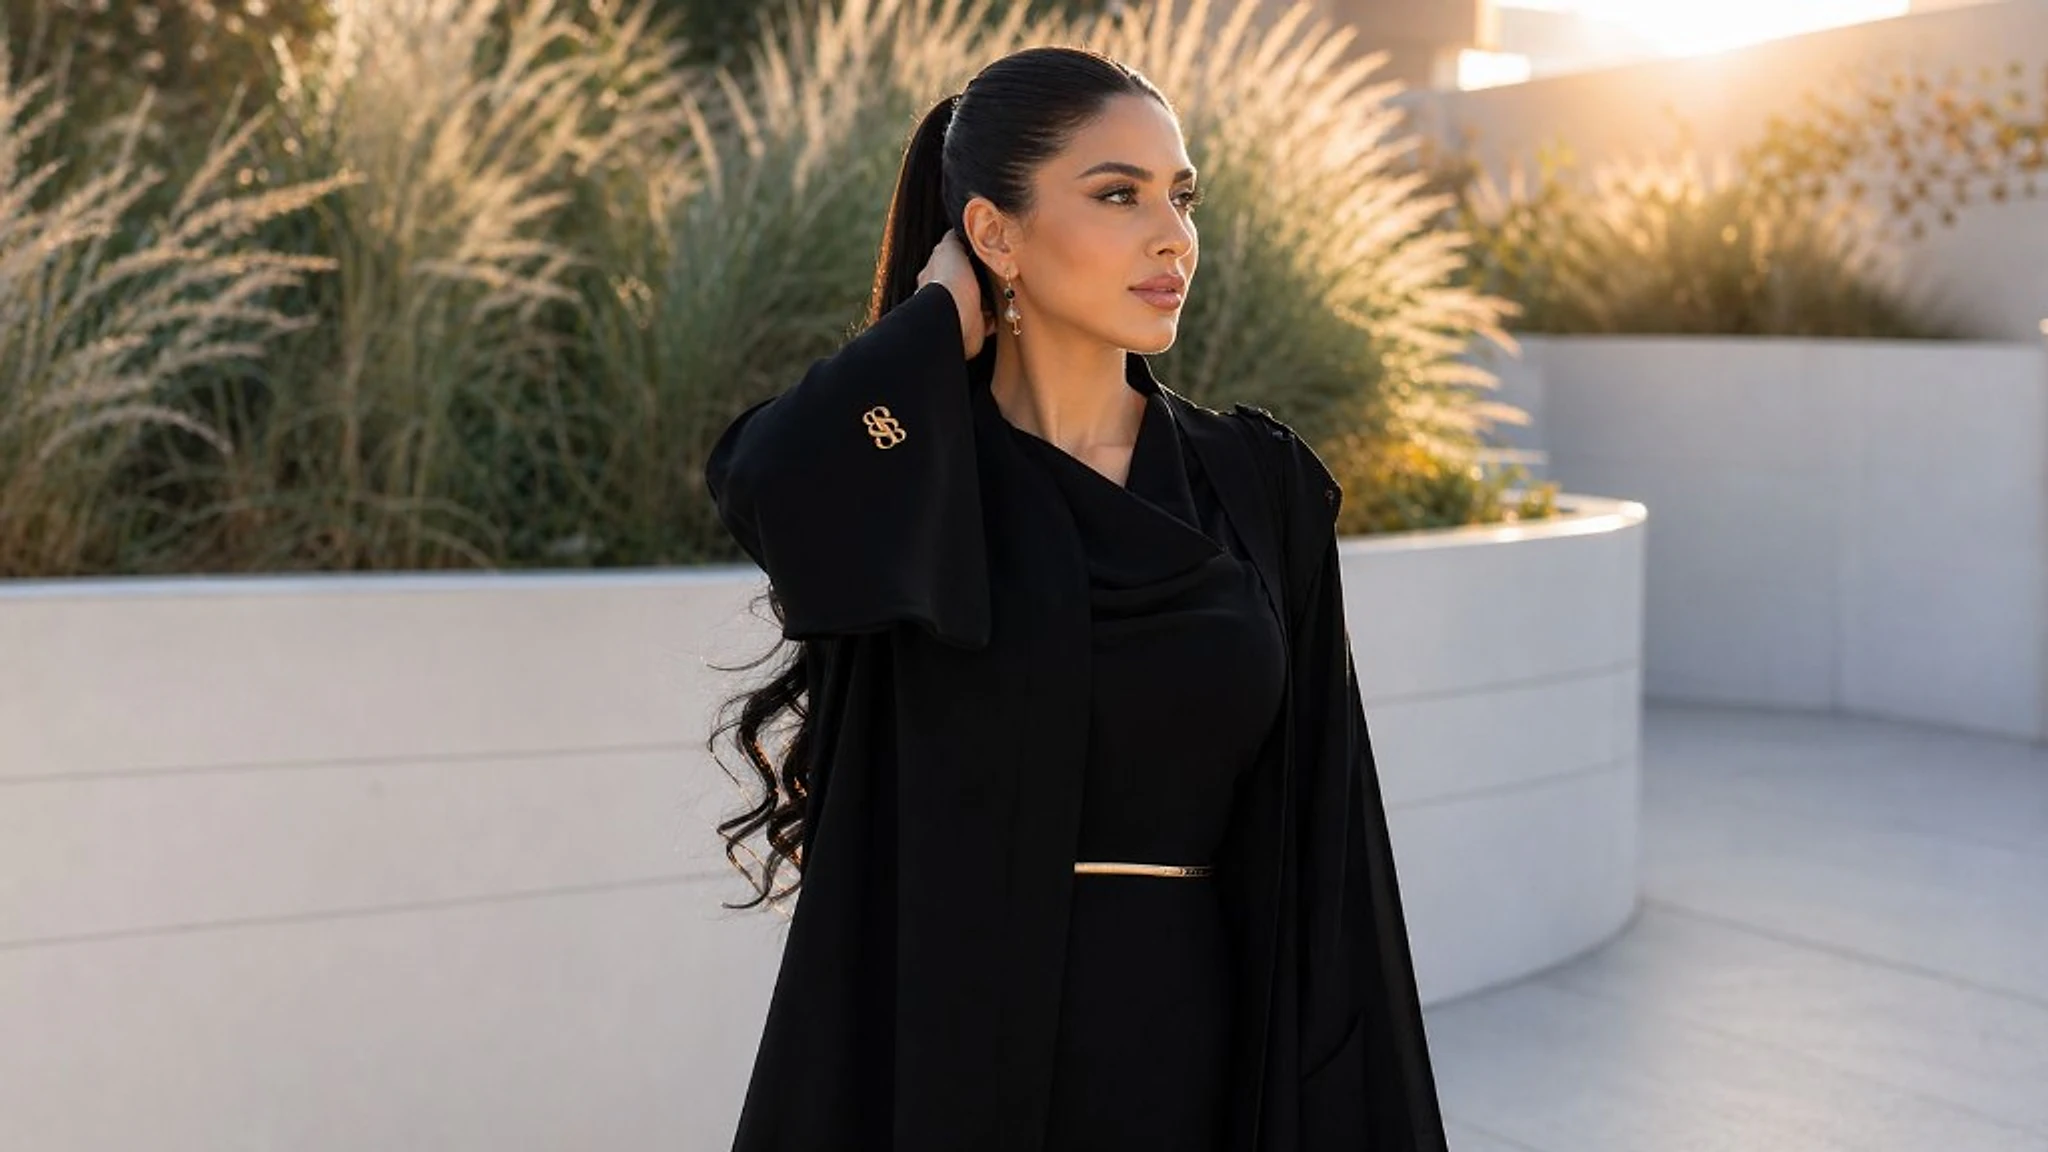
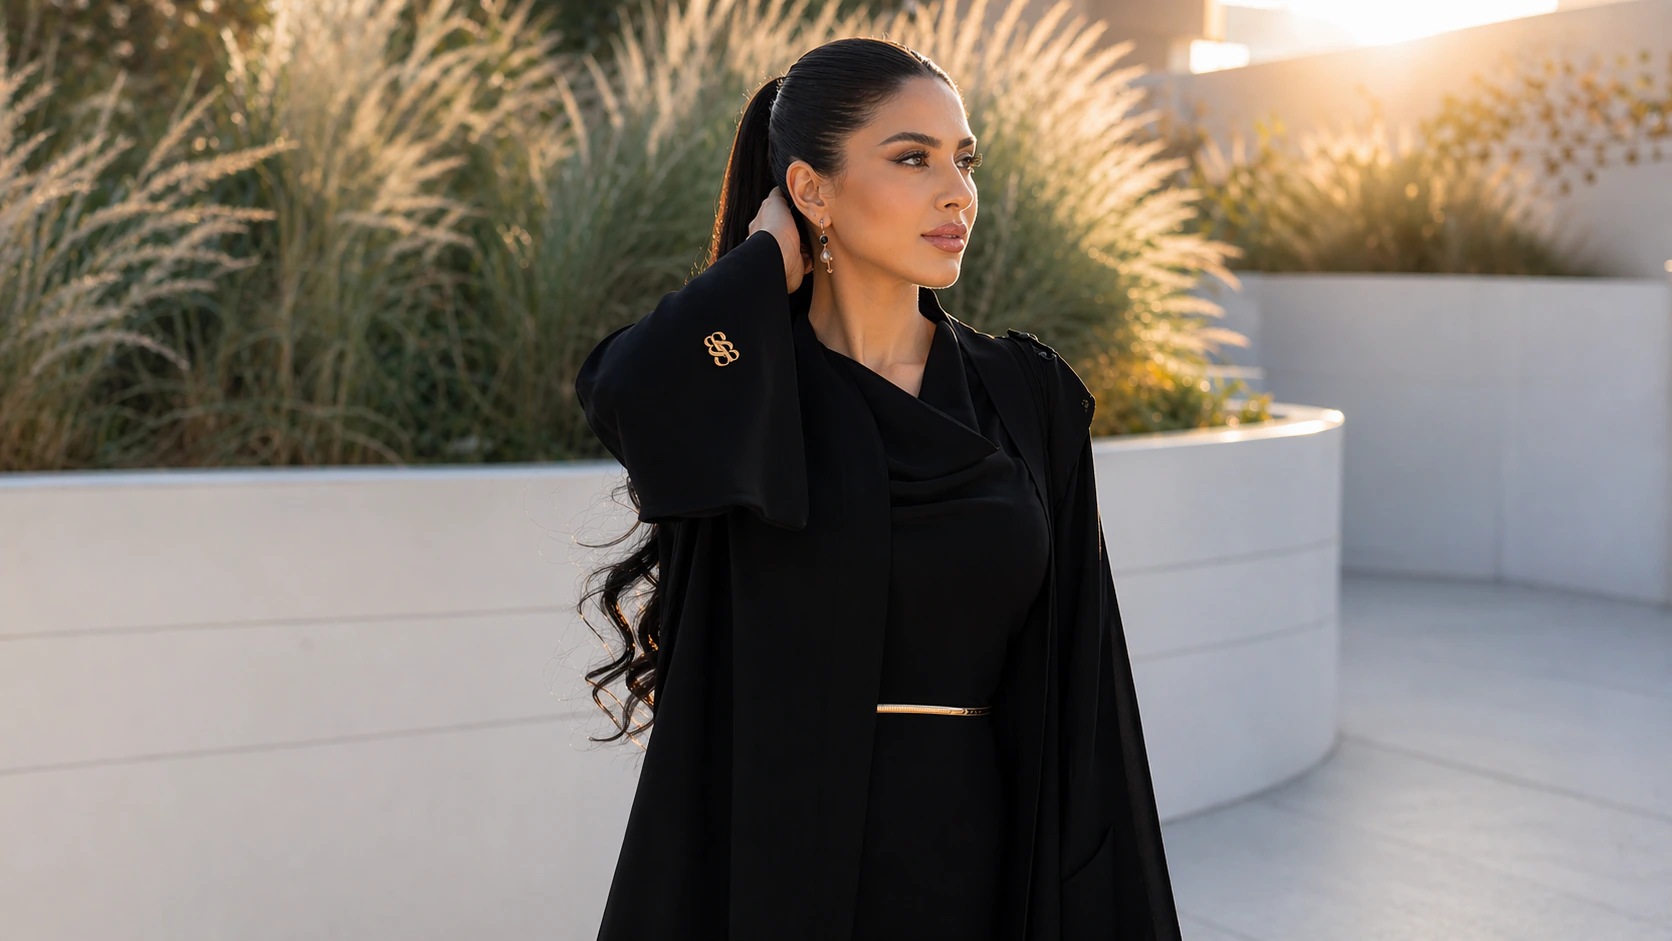
Hero: sharper WebP from 1672px original; Park Lane hero alt text in all locales

diff --git a/lib/i18n/editorialLocales/homeEsRuZhIdMs.ts b/lib/i18n/editorialLocales/homeEsRuZhIdMs.ts
@@ -117,8 +117,8 @@ export const HOME_ES = pack({
     strandsCarouselAlts: ['', '', '', ''] as const,
     personalisationLabel: 'Etiqueta interior personalizada Bint Saeed',
     campaignGazelles: 'Panorama de campaña Bint Saeed — gacelas de Abu Dhabi',
-    heroMobile: 'Abayas Bint Saeed burdeos y negro, fotografía editorial de grupo',
-    heroDesktop: 'Abayas de lujo Bint Saeed, fotografía editorial',
+    heroMobile: 'Abaya Park Lane de Bint Saeed en negro profundo — abaya de lujo emiratí con pañuelo drapeado sobre el hombro y amplios puños cerrados con el gemelo Monogram dorado de Bint Saeed, a la hora dorada en una terraza bañada por el sol',
+    heroDesktop: 'Abaya Park Lane de Bint Saeed en negro profundo — abaya de lujo emiratí con pañuelo drapeado sobre el hombro y amplios puños cerrados con el gemelo Monogram dorado de Bint Saeed, a la hora dorada en una terraza bañada por el sol',
     manifestoPortrait: 'Bint Saeed — de Abu Dhabi al mundo',
     categoryPreview: (label) => `Vista previa ${label}`,
   },
@@ -187,8 +187,8 @@ export const HOME_RU = pack({
     strandsCarouselAlts: ['', '', '', ''] as const,
     personalisationLabel: 'Персонализированная внутренняя этикетка Bint Saeed',
     campaignGazelles: 'Кампанийная панорама Bint Saeed — газели Abu Dhabi',
-    heroMobile: 'Абайи Bint Saeed бордо и чёрный, редакционная групповая съёмка',
-    heroDesktop: 'Люксовые абайи Bint Saeed, редакционная съёмка',
+    heroMobile: 'Абайя Bint Saeed Park Lane глубокого чёрного цвета — роскошная эмиратская дизайнерская абайя с драпированным шарфом на плече и широкими манжетами с золотистой запонкой Bint Saeed Monogram, в золотой час на солнечной террасе',
+    heroDesktop: 'Абайя Bint Saeed Park Lane глубокого чёрного цвета — роскошная эмиратская дизайнерская абайя с драпированным шарфом на плече и широкими манжетами с золотистой запонкой Bint Saeed Monogram, в золотой час на солнечной террасе',
     manifestoPortrait: 'Bint Saeed — из Abu Dhabi в мир',
     categoryPreview: (label) => `Превью ${label}`,
   },
@@ -257,8 +257,8 @@ export const HOME_ZH = pack({
     strandsCarouselAlts: ['', '', '', ''] as const,
     personalisationLabel: 'Bint Saeed 个性化内标',
     campaignGazelles: 'Bint Saeed 广告全景 — 阿布扎比瞪羚',
-    heroMobile: 'Bint Saeed 酒红与黑色长袍，编辑群像摄影',
-    heroDesktop: 'Bint Saeed 奢华长袍，编辑摄影',
+    heroMobile: 'BINT SAEED 承悦 Park Lane 长袍，深黑色——阿联酋奢华设计师长袍，肩部垂坠披巾，宽袖口饰以金色 Monogram 袖扣，于黄金时刻的阳光露台上',
+    heroDesktop: 'BINT SAEED 承悦 Park Lane 长袍，深黑色——阿联酋奢华设计师长袍，肩部垂坠披巾，宽袖口饰以金色 Monogram 袖扣，于黄金时刻的阳光露台上',
     manifestoPortrait: 'Bint Saeed — 从阿布扎比走向世界',
     categoryPreview: (label) => `${label}预览`,
   },
@@ -327,8 +327,8 @@ export const HOME_ID = pack({
     strandsCarouselAlts: ['', '', '', ''] as const,
     personalisationLabel: 'Label dalam personalisasi Bint Saeed',
     campaignGazelles: 'Panorama kampanye Bint Saeed — gazelle Abu Dhabi',
-    heroMobile: 'Abaya Bint Saeed maroon dan hitam, fotografi editorial kelompok',
-    heroDesktop: 'Abaya mewah Bint Saeed, fotografi editorial',
+    heroMobile: 'Abaya Park Lane Bint Saeed warna Deep Black — abaya desainer Emirati mewah dengan syal bahu yang menjuntai dan manset lebar berkancing manset Monogram Bint Saeed berwarna emas, saat golden hour di teras yang bermandikan cahaya',
+    heroDesktop: 'Abaya Park Lane Bint Saeed warna Deep Black — abaya desainer Emirati mewah dengan syal bahu yang menjuntai dan manset lebar berkancing manset Monogram Bint Saeed berwarna emas, saat golden hour di teras yang bermandikan cahaya',
     manifestoPortrait: 'Bint Saeed — dari Abu Dhabi ke dunia',
     categoryPreview: (label) => `Pratinjau ${label}`,
   },
@@ -397,8 +397,8 @@ export const HOME_MS = pack({
     strandsCarouselAlts: ['', '', '', ''] as const,
     personalisationLabel: 'Label dalam diperibadikan Bint Saeed',
     campaignGazelles: 'Panorama kempen Bint Saeed — gazelle Abu Dhabi',
-    heroMobile: 'Abaya Bint Saeed maroon dan hitam, fotografi editorial kumpulan',
-    heroDesktop: 'Abaya mewah Bint Saeed, fotografi editorial',
+    heroMobile: 'Abaya Park Lane Bint Saeed warna Deep Black — abaya pereka Emirati mewah dengan skarf bahu berlabuh dan cuff lebar berkancing manset Monogram Bint Saeed berwarna emas, ketika senja keemasan di teres yang disinari matahari',
+    heroDesktop: 'Abaya Park Lane Bint Saeed warna Deep Black — abaya pereka Emirati mewah dengan skarf bahu berlabuh dan cuff lebar berkancing manset Monogram Bint Saeed berwarna emas, ketika senja keemasan di teres yang disinari matahari',
     manifestoPortrait: 'Bint Saeed — dari Abu Dhabi ke dunia',
     categoryPreview: (label) => `Pratonton ${label}`,
   },

diff --git a/lib/i18n/editorialLocales/homeFrItDePt.ts b/lib/i18n/editorialLocales/homeFrItDePt.ts
@@ -118,8 +118,8 @@ export const HOME_FR = pack({
     strandsCarouselAlts: ['', '', '', ''] as const,
     personalisationLabel: 'Étiquette intérieure personnalisée Bint Saeed',
     campaignGazelles: 'Panorama de campagne Bint Saeed — gazelles d’Abu Dhabi',
-    heroMobile: 'Abayas Bint Saeed bordeaux et noir, photographie éditoriale de groupe',
-    heroDesktop: 'Abayas de luxe Bint Saeed, photographie éditoriale',
+    heroMobile: 'Abaya Park Lane de Bint Saeed en noir profond — abaya de luxe émiratie, écharpe drapée sur l’épaule et larges poignets fermés par le bouton de manchette Monogram doré Bint Saeed, portée à l’heure dorée sur une terrasse baignée de soleil',
+    heroDesktop: 'Abaya Park Lane de Bint Saeed en noir profond — abaya de luxe émiratie, écharpe drapée sur l’épaule et larges poignets fermés par le bouton de manchette Monogram doré Bint Saeed, portée à l’heure dorée sur une terrasse baignée de soleil',
     manifestoPortrait: 'Bint Saeed — d’Abu Dhabi au monde',
     categoryPreview: (label) => `Aperçu ${label}`,
   },
@@ -188,8 +188,8 @@ export const HOME_IT = pack({
     strandsCarouselAlts: ['', '', '', ''] as const,
     personalisationLabel: 'Etichetta interna personalizzata Bint Saeed',
     campaignGazelles: 'Panorama campagna Bint Saeed — gazzelle di Abu Dhabi',
-    heroMobile: 'Abaya Bint Saeed bordeaux e nero, fotografia editoriale di gruppo',
-    heroDesktop: 'Abaya di lusso Bint Saeed, fotografia editoriale',
+    heroMobile: 'Abaya Park Lane di Bint Saeed in nero profondo — abaya di lusso emiratina con sciarpa drappeggiata sulla spalla e ampi polsini chiusi dal gemello Monogram dorato Bint Saeed, indossata all’ora dorata su una terrazza assolata',
+    heroDesktop: 'Abaya Park Lane di Bint Saeed in nero profondo — abaya di lusso emiratina con sciarpa drappeggiata sulla spalla e ampi polsini chiusi dal gemello Monogram dorato Bint Saeed, indossata all’ora dorata su una terrazza assolata',
     manifestoPortrait: 'Bint Saeed — da Abu Dhabi al mondo',
     categoryPreview: (label) => `Anteprima ${label}`,
   },
@@ -258,8 +258,8 @@ export const HOME_DE = pack({
     strandsCarouselAlts: ['', '', '', ''] as const,
     personalisationLabel: 'Personalisiertes verstecktes Innenetikett Bint Saeed',
     campaignGazelles: 'Bint Saeed Kampagnenpanorama — Gazellen von Abu Dhabi',
-    heroMobile: 'Bint Saeed Luxus-Abayas in Bordeaux und Schwarz, editoriale Gruppenfotografie',
-    heroDesktop: 'Bint Saeed Luxus-Abayas, editoriale Fotografie',
+    heroMobile: 'Bint Saeed Park Lane Abaya in Tiefschwarz — luxuriöse emiratische Designer-Abaya mit drapiertem Schulterschal und weiten Manschetten, geschlossen mit dem goldfarbenen Bint Saeed Monogram-Manschettenknopf, zur goldenen Stunde auf einer sonnigen Terrasse',
+    heroDesktop: 'Bint Saeed Park Lane Abaya in Tiefschwarz — luxuriöse emiratische Designer-Abaya mit drapiertem Schulterschal und weiten Manschetten, geschlossen mit dem goldfarbenen Bint Saeed Monogram-Manschettenknopf, zur goldenen Stunde auf einer sonnigen Terrasse',
     manifestoPortrait: 'Bint Saeed — von Abu Dhabi in die Welt',
     categoryPreview: (label) => `Vorschau ${label}`,
   },
@@ -328,8 +328,8 @@ export const HOME_PT = pack({
     strandsCarouselAlts: ['', '', '', ''] as const,
     personalisationLabel: 'Etiqueta interior personalizada Bint Saeed',
     campaignGazelles: 'Panorama de campanha Bint Saeed — gazelas de Abu Dhabi',
-    heroMobile: 'Abayas Bint Saeed bordeaux e preto, fotografia editorial de grupo',
-    heroDesktop: 'Abayas de luxo Bint Saeed, fotografia editorial',
+    heroMobile: 'Abaya Park Lane da Bint Saeed em preto profundo — abaya de luxo emiradense com lenço drapeado sobre o ombro e punhos largos fechados pela abotoadura Monogram dourada da Bint Saeed, à hora dourada num terraço banhado de sol',
+    heroDesktop: 'Abaya Park Lane da Bint Saeed em preto profundo — abaya de luxo emiradense com lenço drapeado sobre o ombro e punhos largos fechados pela abotoadura Monogram dourada da Bint Saeed, à hora dourada num terraço banhado de sol',
     manifestoPortrait: 'Bint Saeed — de Abu Dhabi para o mundo',
     categoryPreview: (label) => `Pré-visualização ${label}`,
   },

diff --git a/lib/i18n/homeEditorialCopyI18n.ts b/lib/i18n/homeEditorialCopyI18n.ts
@@ -428,8 +428,8 @@ const HOME_EN: HomeEditorialCopy = {
     strandsCarouselAlts: HOME_STRANDS_CAROUSEL_ALTS.en,
     personalisationLabel: 'Bint Saeed personalised hidden inner label',
     campaignGazelles: 'Bint Saeed campaign panorama — Abu Dhabi gazelles',
-    heroMobile: 'Bint Saeed luxury abayas in burgundy and black, editorial group photograph',
-    heroDesktop: 'Bint Saeed luxury abayas, editorial photograph',
+    heroMobile: 'Bint Saeed Park Lane Abaya in Deep Black — luxury Emirati designer abaya with a draped shoulder scarf and wide cuffs fastened by the gold-tone Bint Saeed Monogram cufflink, worn at golden hour on a sunlit terrace',
+    heroDesktop: 'Bint Saeed Park Lane Abaya in Deep Black — luxury Emirati designer abaya with a draped shoulder scarf and wide cuffs fastened by the gold-tone Bint Saeed Monogram cufflink, worn at golden hour on a sunlit terrace',
     manifestoPortrait: 'Bint Saeed — from Abu Dhabi to the world',
     categoryPreview: (label) => `${label} preview`,
   },
@@ -532,8 +532,8 @@ const HOME_AR: HomeEditorialCopy = {
     strandsCarouselAlts: HOME_STRANDS_CAROUSEL_ALTS.ar,
     personalisationLabel: 'ملصق داخلي مخفي ومخصّص من Bint Saeed',
     campaignGazelles: 'بانوراما حملة Bint Saeed — غزلان أبوظبي',
-    heroMobile: 'عباءات Bint Saeed الفاخرة بالعنابي والأسود، صورة تحريرية جماعية',
-    heroDesktop: 'عباءات Bint Saeed الفاخرة، صورة تحريرية',
+    heroMobile: 'عباءة Park Lane من Bint Saeed باللون الأسود العميق — عباءة إماراتية فاخرة بوشاح منسدل على الكتف وأكمام واسعة تزيّنها أزرار أكمام Monogram الذهبية من Bint Saeed، في ضوء الغروب الذهبي على شرفة مشمسة',
+    heroDesktop: 'عباءة Park Lane من Bint Saeed باللون الأسود العميق — عباءة إماراتية فاخرة بوشاح منسدل على الكتف وأكمام واسعة تزيّنها أزرار أكمام Monogram الذهبية من Bint Saeed، في ضوء الغروب الذهبي على شرفة مشمسة',
     manifestoPortrait: 'Bint Saeed — من أبوظبي إلى العالم',
     categoryPreview: (label) => `معاينة ${label}`,
   },
@@ -636,8 +636,8 @@ const HOME_NL: HomeEditorialCopy = {
     strandsCarouselAlts: HOME_STRANDS_CAROUSEL_ALTS.nl,
     personalisationLabel: 'Bint Saeed gepersonaliseerd verborgen binnenlabel',
     campaignGazelles: 'Bint Saeed campagnepanorama — gazellen van Abu Dhabi',
-    heroMobile: 'Bint Saeed luxe abaya’s in bordeaux en zwart, editoriale groepsfotografie',
-    heroDesktop: 'Bint Saeed luxe abaya’s, editoriale fotografie',
+    heroMobile: 'Bint Saeed Park Lane Abaya in diepzwart — luxe Emiratische designerabaya met gedrapeerde schoudersjaal en wijde manchetten, gesloten met de goudkleurige Bint Saeed Monogram-manchetknoop, in het gouden uur op een zonnig terras',
+    heroDesktop: 'Bint Saeed Park Lane Abaya in diepzwart — luxe Emiratische designerabaya met gedrapeerde schoudersjaal en wijde manchetten, gesloten met de goudkleurige Bint Saeed Monogram-manchetknoop, in het gouden uur op een zonnig terras',
     manifestoPortrait: 'Bint Saeed — van Abu Dhabi naar de wereld',
     categoryPreview: (label) => `Voorbeeld ${label}`,
   },
